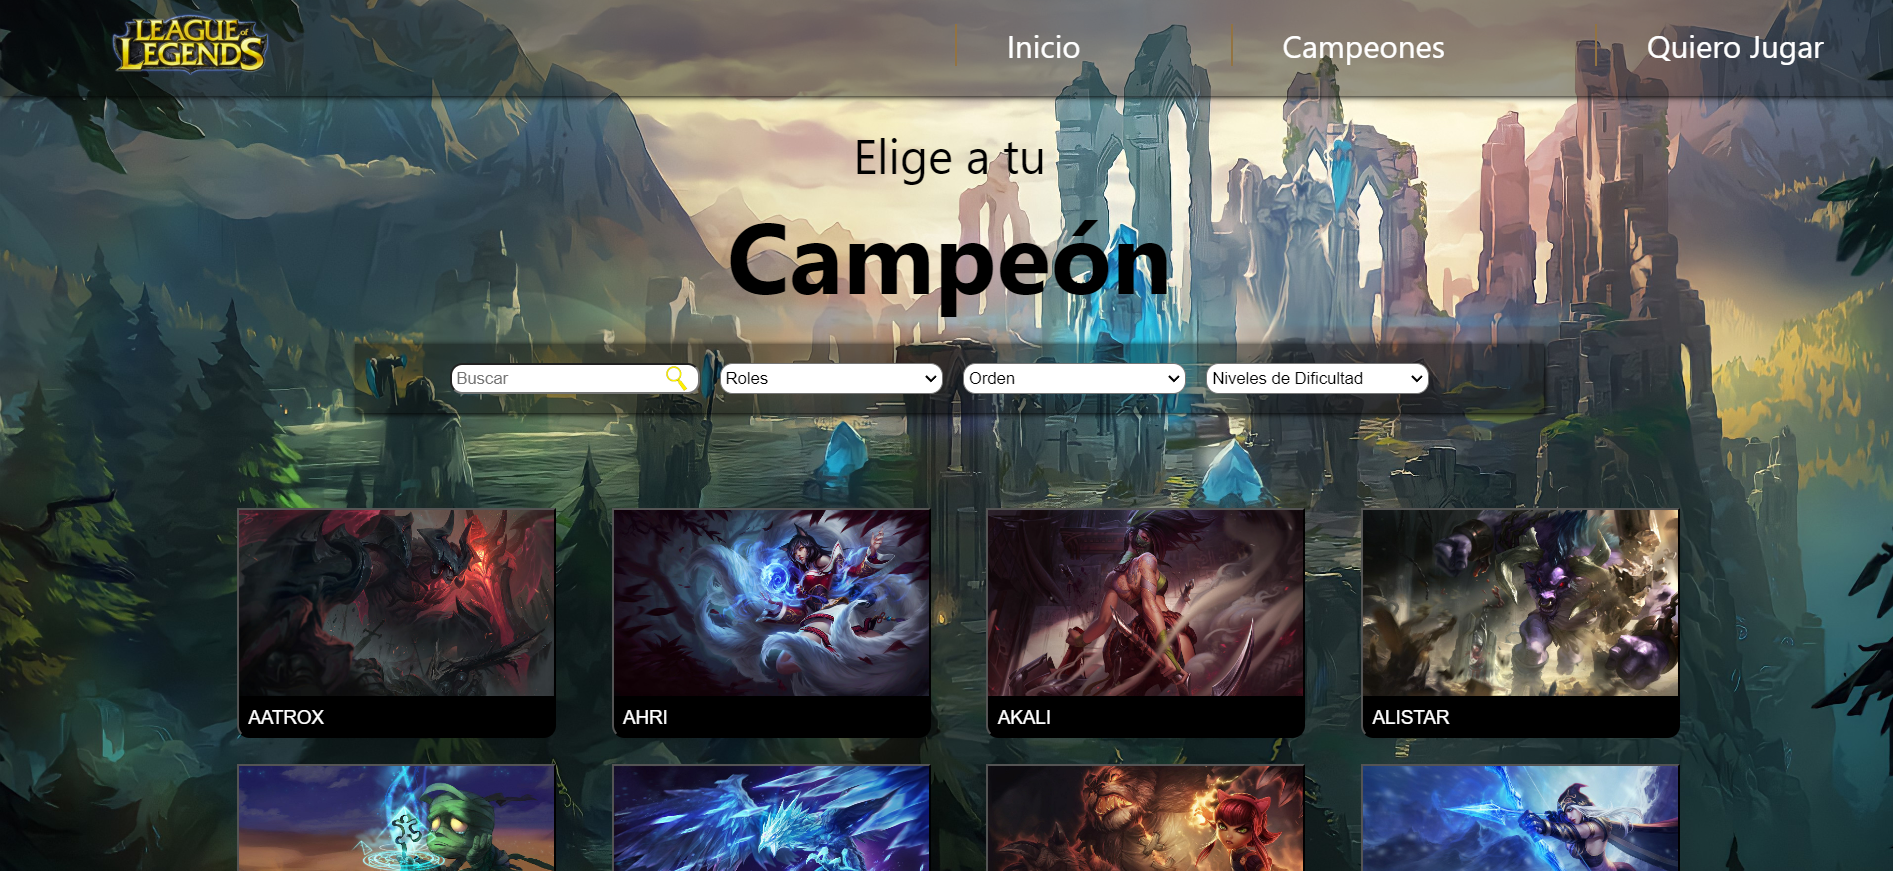
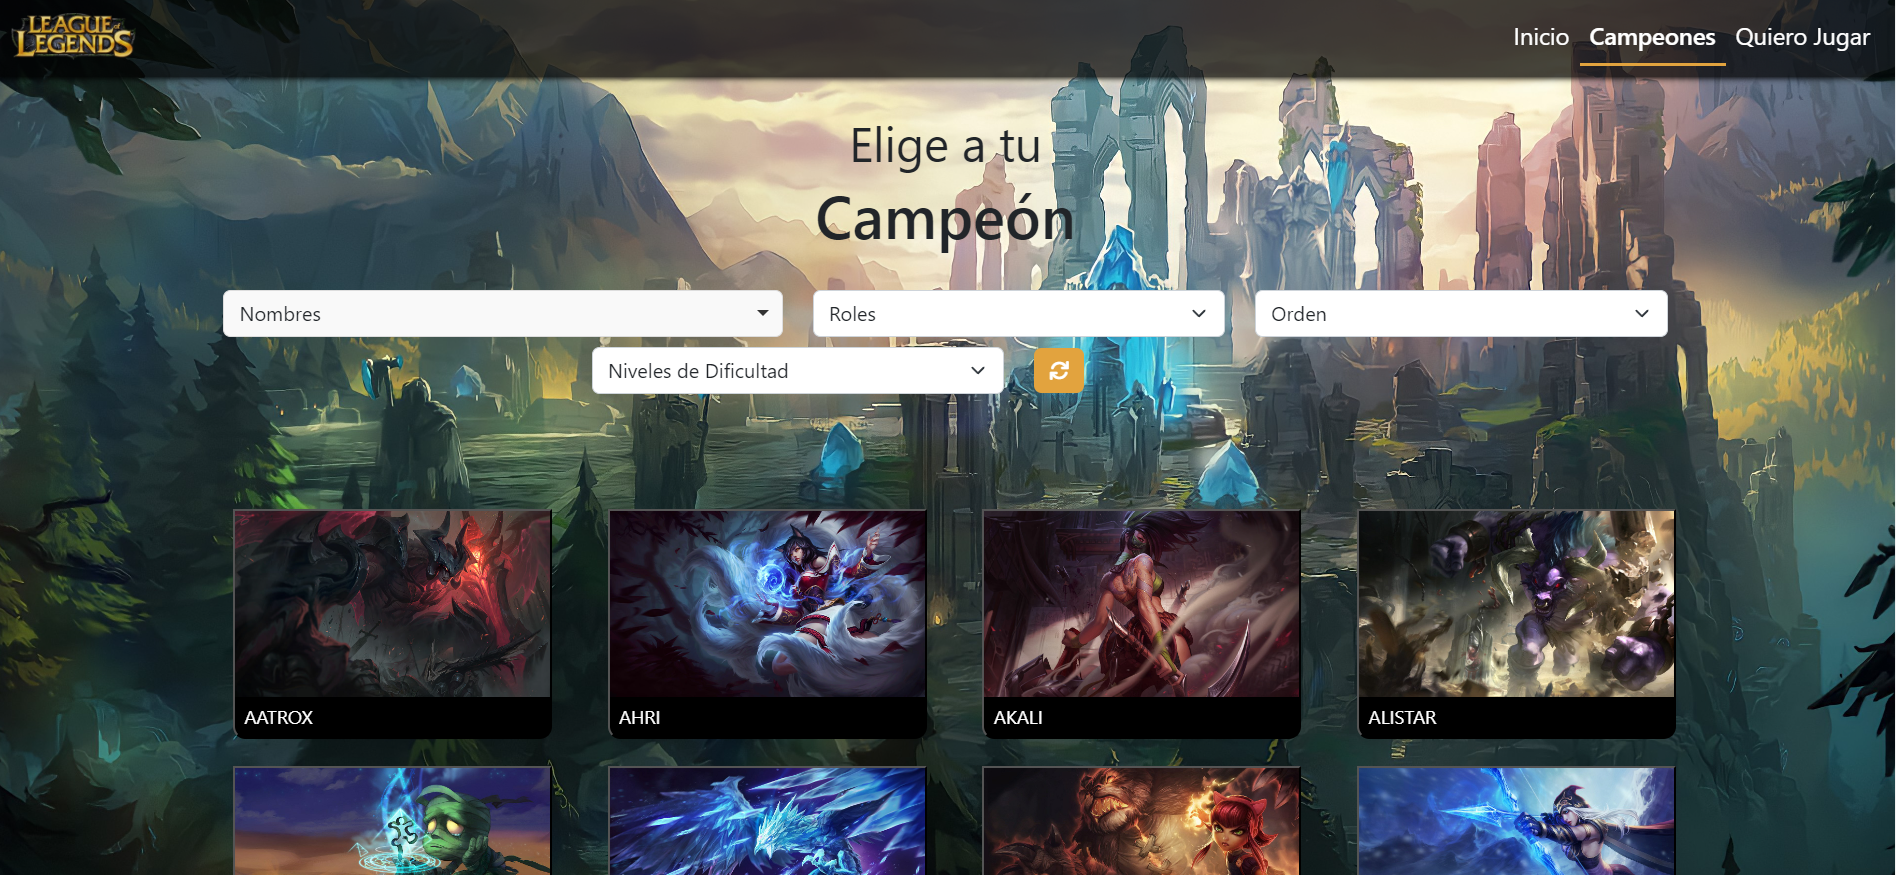
portafolio change: Url a nuevo diseño de Data-Lover

diff --git a/src/views/ProjectsView.vue b/src/views/ProjectsView.vue
@@ -101,7 +101,7 @@ export default {
             {name : 'fa-github', color: '#333'},
             {name : 'fa-figma', color: '#333333'},
           ],
-          url: 'https://erikagonza25.github.io/LIM014-data-lovers/',
+          url: 'https://erika-league-of-legends.vercel.app/',
           img: 'assets/images/league.png'
         },
         {
